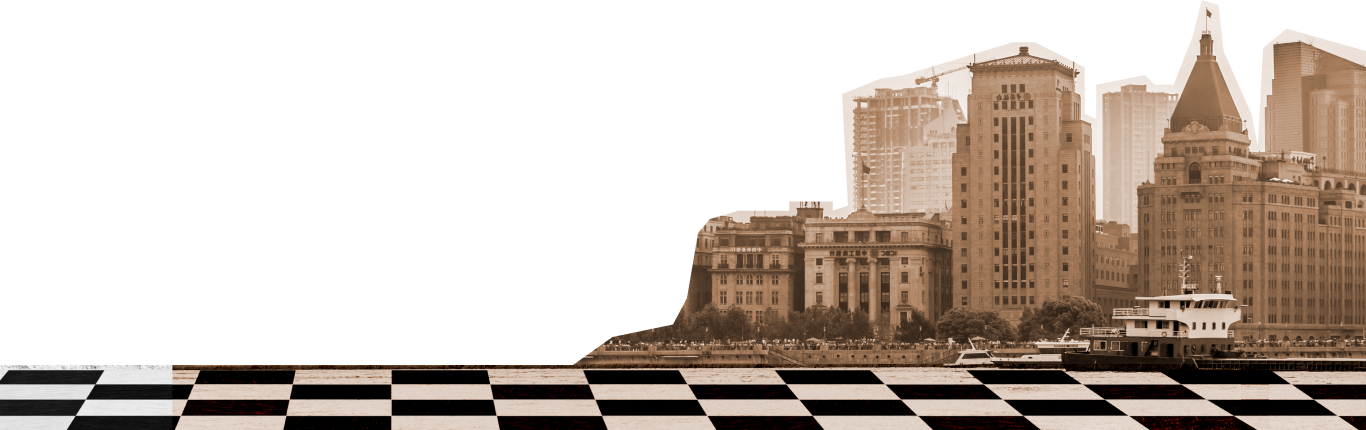
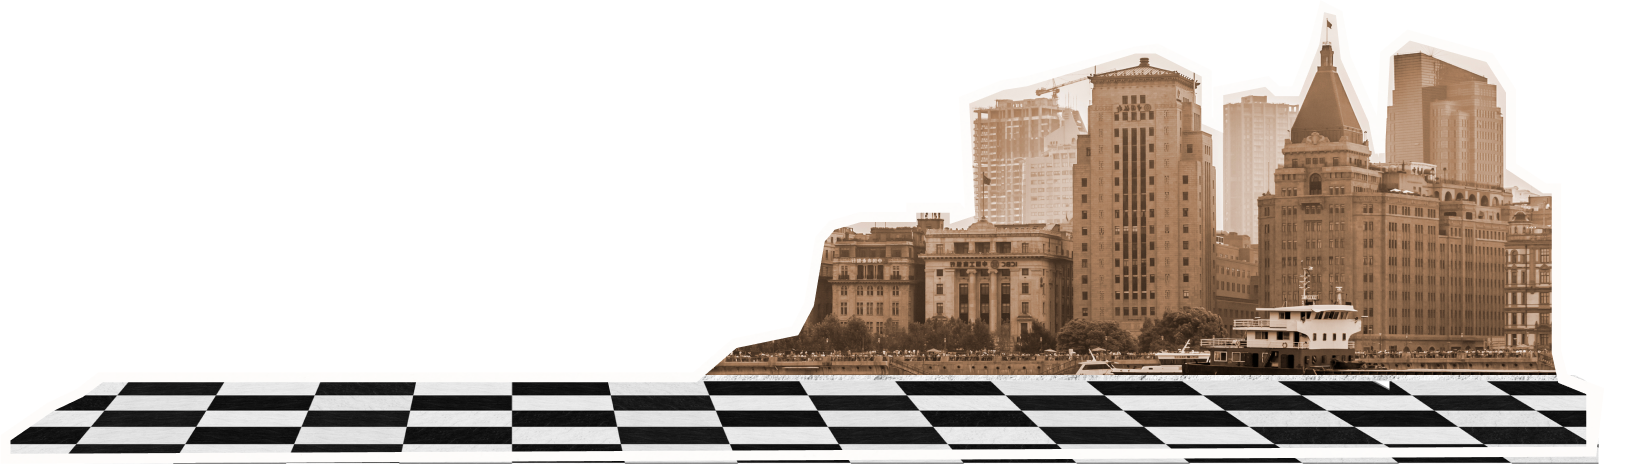
work with header

diff --git a/src/styles/components/UI/_bg.scss b/src/styles/components/UI/_bg.scss
@@ -2,16 +2,42 @@
 
 .bg {
     background-color: $color-background ;
+    user-select: none;
     
     background-position: center;
     width: 100%;
     height: 100%;
-    max-width: 1623.5px;
     position: absolute;
     top: 0;
     left: 0;
     overflow: hidden;
     z-index: -50;
+
+    &-container {
+        position: absolute;
+        bottom: 0;
+        left: 0;
+        width: 100%;
+        height: 100%;
+        overflow: hidden;
+        z-index: -50;
+        max-width: 1623.5px;
+        margin: 0 auto;
+    }
+
+    // // Новый псевдоэлемент для центрирования содержимого
+    // &::before {
+    //     content: '';
+    //     display: block;
+    //     width: 100%;
+    //     height: 100%;
+    //     max-width: 1623.5px;
+    //     margin: 0 auto;
+    //     position: absolute;
+    //     top: 0;
+    //     left: 0;
+    //     right: 0;
+    // }
 
     &::after {
 
@@ -74,5 +100,13 @@
             @include avg-tab(bottom, 104.69px, 128px);
             @include avg-tab(right, 47.49px, 33px);
         }
+
+        // @at-root .bg-container & {
+        //     max-width: 1623.5px;
+        //     margin: 0 auto;
+        //     left: 0;
+        //     right: 0;
+        // }
+        
     }
 }

diff --git a/src/components/UI/_bg.html b/src/components/UI/_bg.html
@@ -1,7 +1,9 @@
-<div class="bg {=$class}__bg"> 
-    <img class="bg__element bg__element-horse" src="src/assets/images/chess-horse.png" alt="Chess piece: horse">
-    <img class="bg__element bg__element-bishop" src="src/assets/images/chess-bishop.png" alt="Chess piece: rook">
-    <img class="bg__element bg__element-king" src="src/assets/images/chess-king.png" alt="Chess piece: king">
-    <img class="bg__element bg__element-city" src="src/assets/images/city-bg.png" alt="Image of the city">
-    <img class="bg__element bg__element-sun" src="src/assets/images/sun.png" alt="Image of the sun">
+<div class="bg-container">
+    <div class="bg {=$class}__bg">
+        <img class="bg__element bg__element-horse" src="src/assets/images/chess-horse.png" alt="Chess piece: horse">
+        <img class="bg__element bg__element-bishop" src="src/assets/images/chess-bishop.png" alt="Chess piece: rook">
+        <img class="bg__element bg__element-king" src="src/assets/images/chess-king.png" alt="Chess piece: king">
+        <img class="bg__element bg__element-city" src="src/assets/images/city-bg.png" alt="Image of the city">
+        <img class="bg__element bg__element-sun" src="src/assets/images/sun.png" alt="Image of the sun">
+    </div>
 </div>

diff --git a/src/styles/components/TheHeader.scss b/src/styles/components/TheHeader.scss
@@ -6,10 +6,20 @@
 
 .header {
     position: relative;
+    display: flex;
+    flex-direction: column;
+    align-items: center;
+
+    &-container {
+        display: flex;
+        flex-direction: column;
+        width: 100%;
+        max-width: 1600px;
+    }
     
 
     &__logo {
-        @include mf-bp-rem('padding', (
+        @include mf-bp-rem('margin', (
             xs: 18px 20px 0px,
             md: (avg(18px, 26px) avg(20px, 72px) 0px),
             xl: 26px 72px 0px
@@ -39,7 +49,7 @@
 
 
     &__hero {
-        @include mf-bp-rem('padding', (
+        @include mf-bp-rem('margin', (
             xs: 40px 20px 0,
             md: avg(40px, 62px) avg(20px, 72px) 0,
             xl: 62px 72px 0,

diff --git a/src/components/TheHeader.html b/src/components/TheHeader.html
@@ -1,14 +1,14 @@
-<load src="src/components/_company-logo.html" 
-class="header"
-/>
-<!-- <div class="header__content"> -->
-    <load src="src/components/_hero.html"
+<div class="header-container">
+    <load src="src/components/_company-logo.html"
     class="header"
     />
-    <load src="src/components/UI/_bg.html"
+        <load src="src/components/_hero.html"
+        class="header"
+        />
+        <load src="src/components/UI/_bg.html"
+        class="header"
+        />
+    <load src="src/components/UI/_marquee.html"
     class="header"
     />
-<!-- </div> -->
-<load src="src/components/UI/_marquee.html"
-class="header"
-/>
+</div>

diff --git a/src/styles/components/_hero.scss b/src/styles/components/_hero.scss
@@ -4,9 +4,12 @@
 .hero {
     display: flex;
     flex-direction: column;
-    align-items: center;
-    max-width: 542px;
-    
+    max-width: 1413.5px;
+
+    & > * {
+        @include avg-tab('max-width', 335px, 542px);
+    }
+
     @include mf-bp-rem('row-gap', (
         xs: 24px,
     )); 

diff --git a/src/styles/base/_base.scss b/src/styles/base/_base.scss
@@ -6,7 +6,10 @@
     font-style : normal;
     line-height: 20px;
     @include mf-bp-rem('font-size', (
-        xs: $font-size-html,
+        xs: $font-size-html * 0.7,
+        sm: $font-size-html,
+        md: $font-size-html * 0.95,
+        lg: $font-size-html
     ));
 }
 

diff --git a/src/styles/abstracts/variables/_screen-params.scss b/src/styles/abstracts/variables/_screen-params.scss
@@ -1,6 +1,6 @@
 // screen sizes
 $screen-xs : 0;
-$screen-sm : 480px;
+$screen-sm : 375px;
 $screen-md : 768px;
 $screen-lg : 992px;
 $screen-xl : 1366px;

diff --git a/src/styles/components/_company-logo.scss b/src/styles/components/_company-logo.scss
@@ -1,5 +1,5 @@
 @use '@styles/global' as *;
 
 .company-logo {
-
+    user-select: none;
 }
